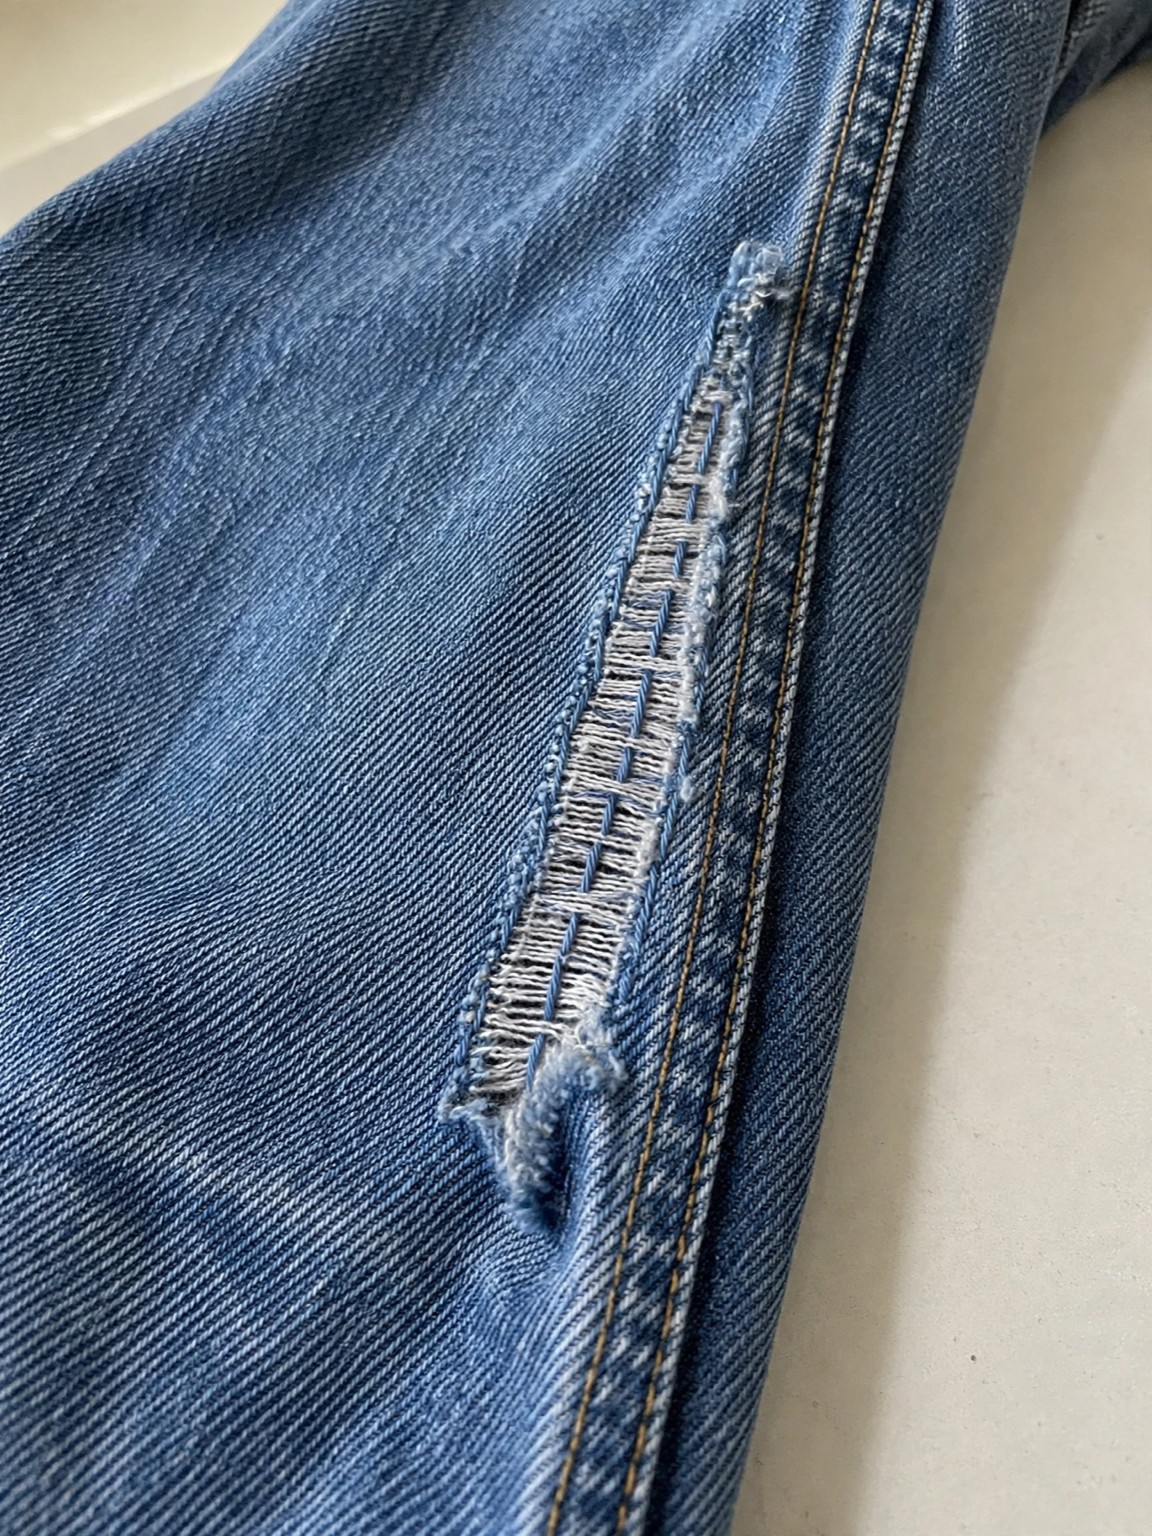
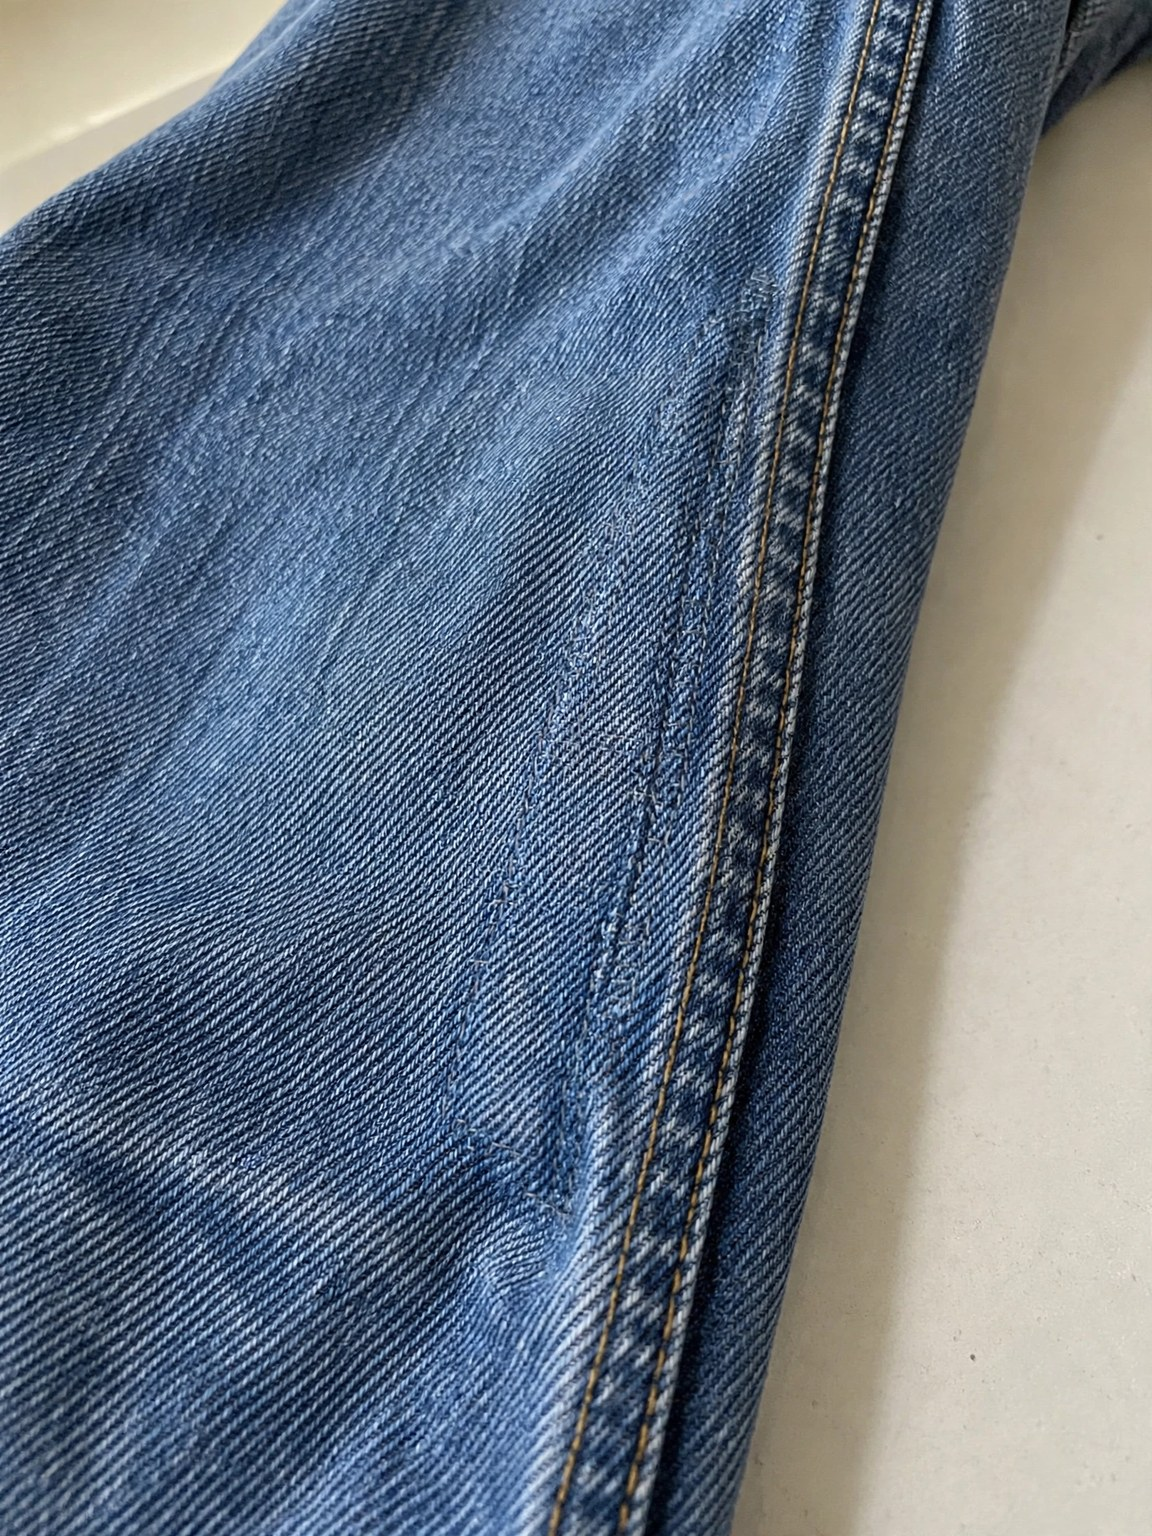
proxy: Nachher-Vorschau zeigt kaum sichtbare Reparatur (passendes Garn, keine Kontrastfäden, kein X); Jeans/Pulli-Vorschauen neu erzeugt

diff --git a/proxy/app/clients.py b/proxy/app/clients.py
@@ -87,6 +87,10 @@ def preview_prompt(req: AfterPreviewRequest) -> str:
                   "darning": "darning", "whip_stitch": "whip stitch"}.get(req.stitch_type or "")
         prompt += f"Neatly close or mend it with {stitch} in matching thread. " if stitch else \
             "Neatly close or mend it in matching thread. "
+        # Owner 2026-10-30: previews showed thick, contrasting thread and X-shaped stitches. A good mend is barely visible.
+        prompt += ("The mend is fine and barely visible from a normal viewing distance: thread exactly the fabric's colour and "
+                   "thickness, following the weave or knit, no contrasting thread, no thick or loose threads, no X or cross "
+                   "shapes, no visible knots. ")
     if req.repair_hint:
         prompt += f"Repair detail: {req.repair_hint.strip()}. "
     return prompt + "Keep the same object, exact colours, material, lighting, perspective and background; nothing else changed."

diff --git a/proxy/tests/test_agent_and_live.py b/proxy/tests/test_agent_and_live.py
@@ -509,3 +509,8 @@ def test_step_prompt_shows_mid_repair_state_only():
                                            step_text='Lay parallel threads.'))
     assert 'Weave lengthwise threads' in p and 'nothing from later steps' in p and 'repaired state' not in p
     assert 'same framing' in p.lower()
+
+
+def test_textile_preview_asks_for_a_barely_visible_mend():
+    p = preview_prompt(AfterPreviewRequest(image_base64='x', diagnosis_summary='Small hole', stitch_type='darning'))
+    assert 'barely visible' in p and 'no contrasting thread' in p and 'no X' in p
